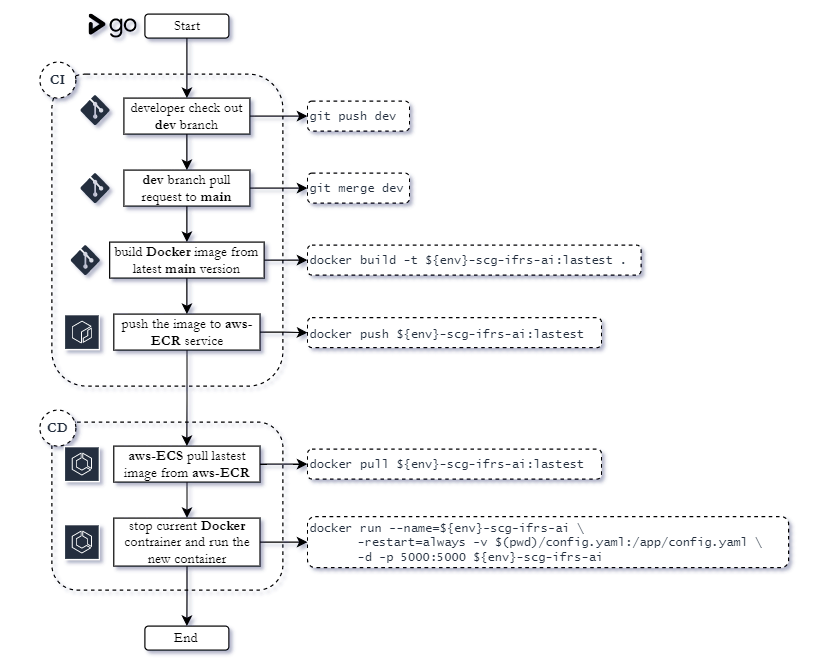
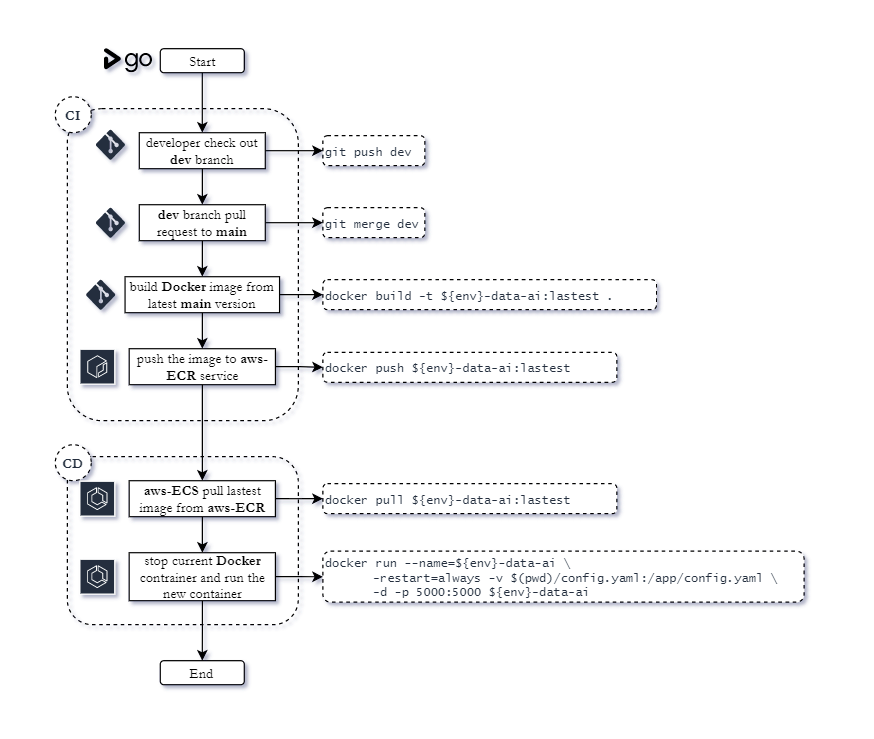
Merge from branch 0.2.0 (#7)
* feat: add features for version 0.2.0

* docs: update CHANGES.md

* docs: change image of CICD flow

* docs: update README.md file

* build: add publish process to GitHub workflow

Changed region(s): [[0.0609, 0.0298, 0.9744, 0.9836]]

diff --git a/README.md b/README.md
@@ -1,17 +1,14 @@
 # Data Framework Application: *Flask and Postgres*
 
-**Type**: `DFA` |
-**Tag**: `Data Framework` `Web Application` `Python` `Flask` `Docker`
-
 **Table of Contents**:
 
-- [Overviews](#overviews)
-  - [Get Started](#get-started)
-  - [Components](#components)
-- [Build Application](#build-application)
-- [API Document](#api-document)
-- [CI/CD Flow](#application-cicd-flow)
-- [Service Reference](#service-reference)
+* [Overviews](#overviews)
+  * [Get Started](#get-started)
+  * [Components](#components)
+* [Build Application](#build-application)
+* [API Document](#api-document)
+* [CI/CD Flow](#application-cicd-flow)
+* [Service Reference](#service-reference)
 
 This is the Full-Stack **Data Framework Application** (DFA) that was built by 
 [Flask Micro-Web Application Framework](https://flask.palletsprojects.com/en/2.0.x/)
@@ -87,6 +84,7 @@ python .\manage.py run api=True --debug=True
 
 #### Web Service
 
+>>>>>>> main
 The Web Application framework serve static templates to client. This session will
 show UI for control any framework components.
 
